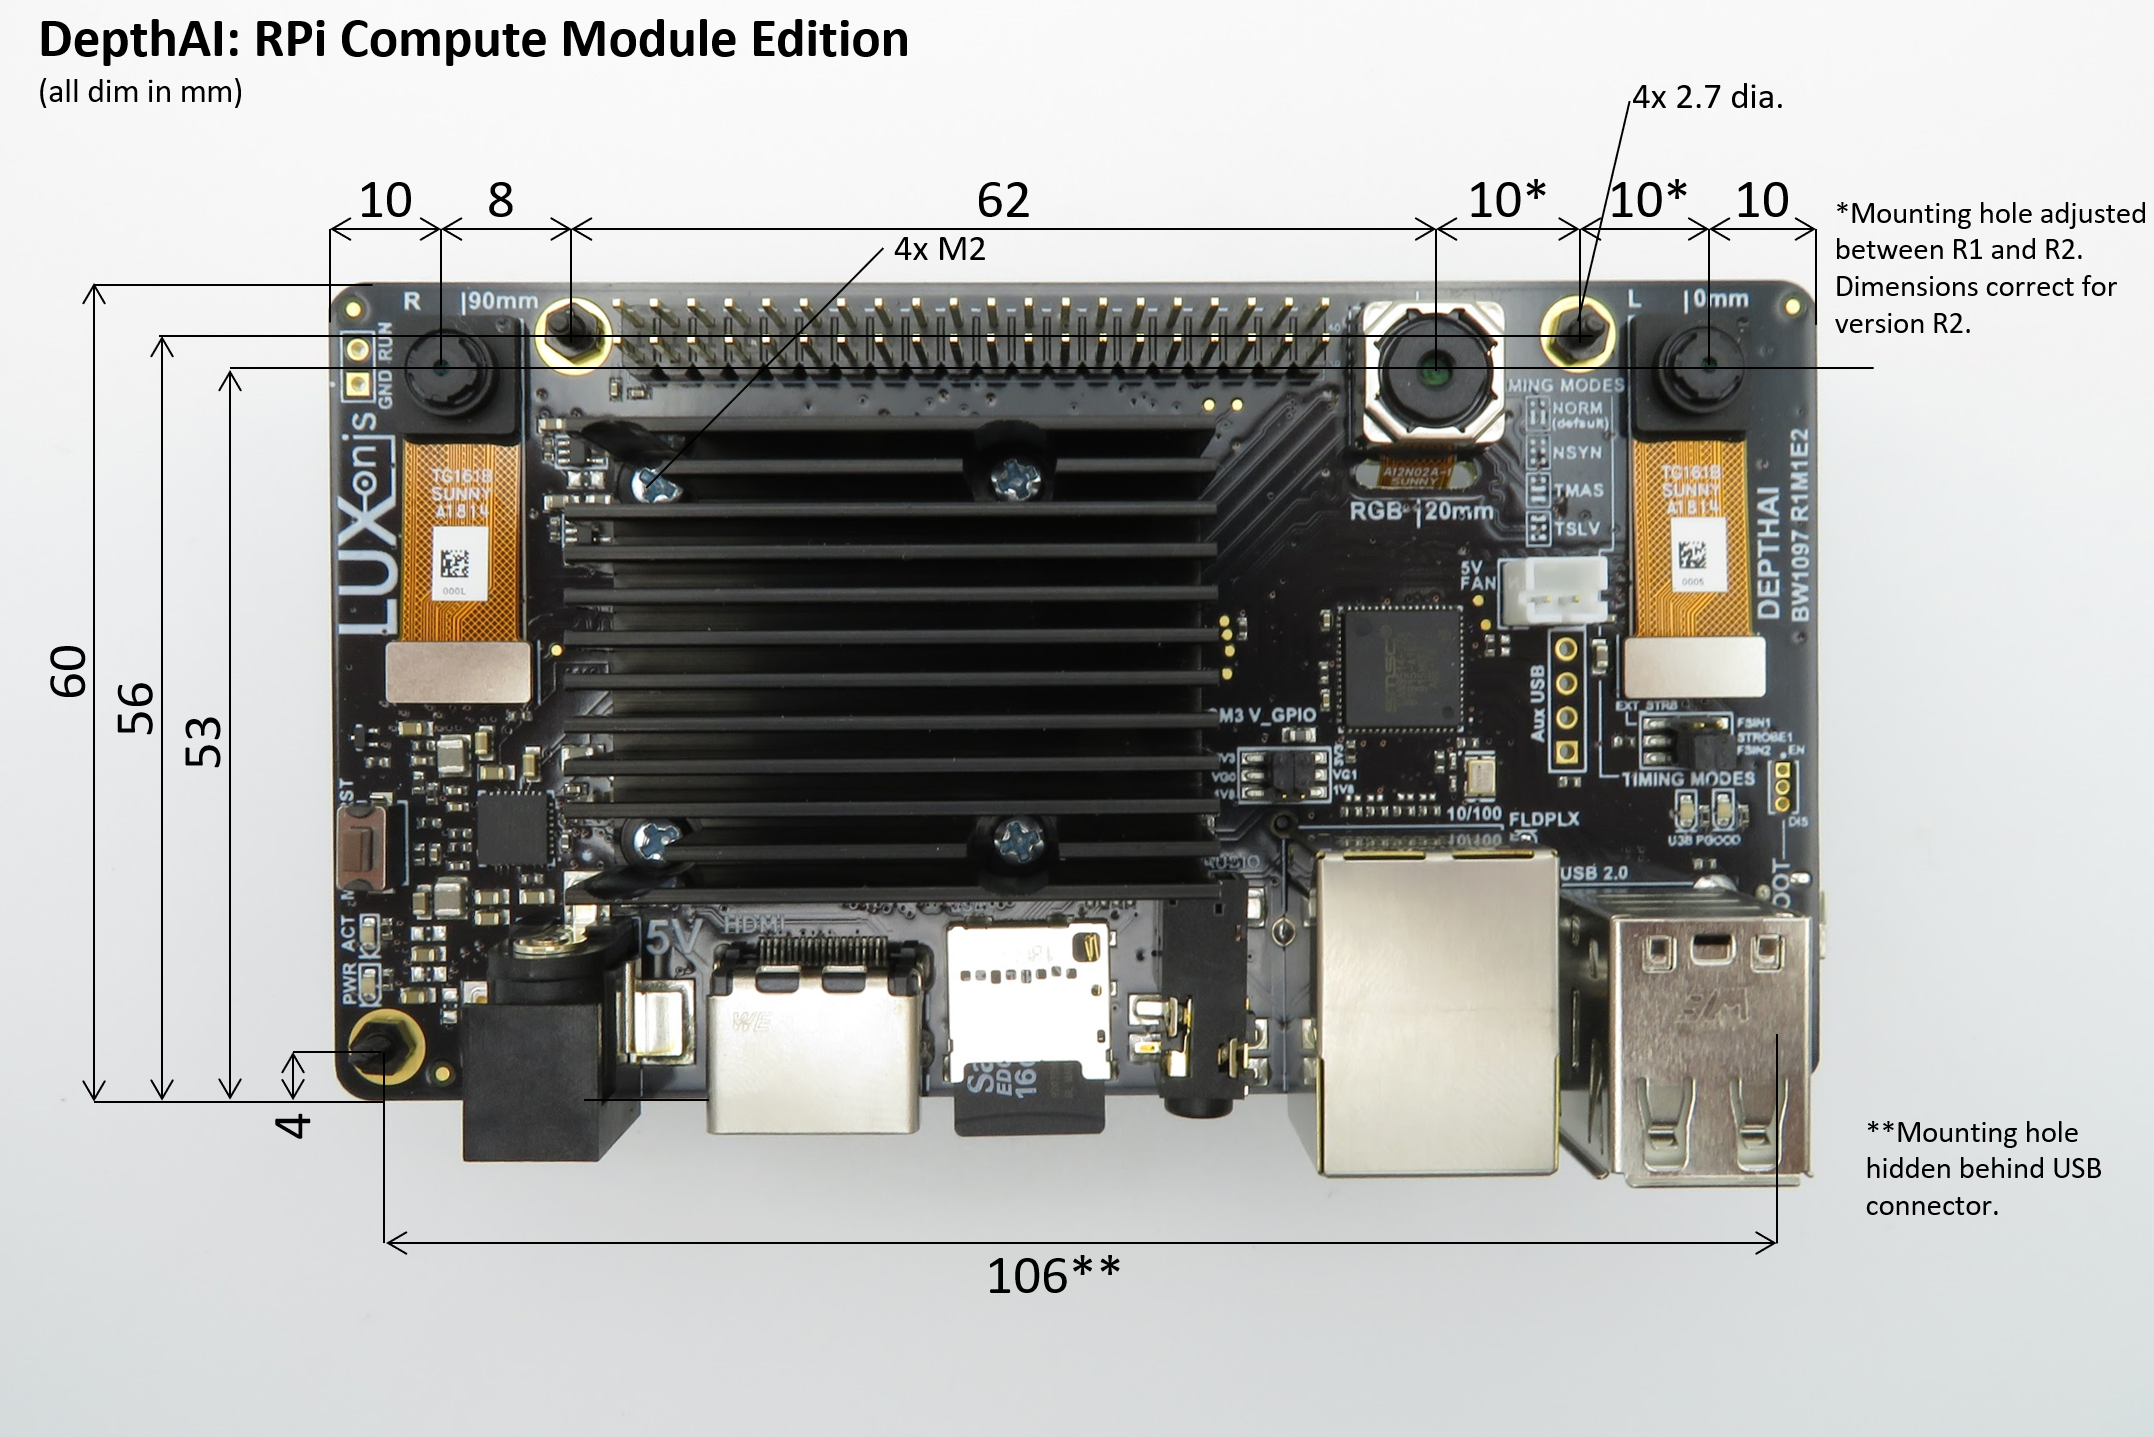
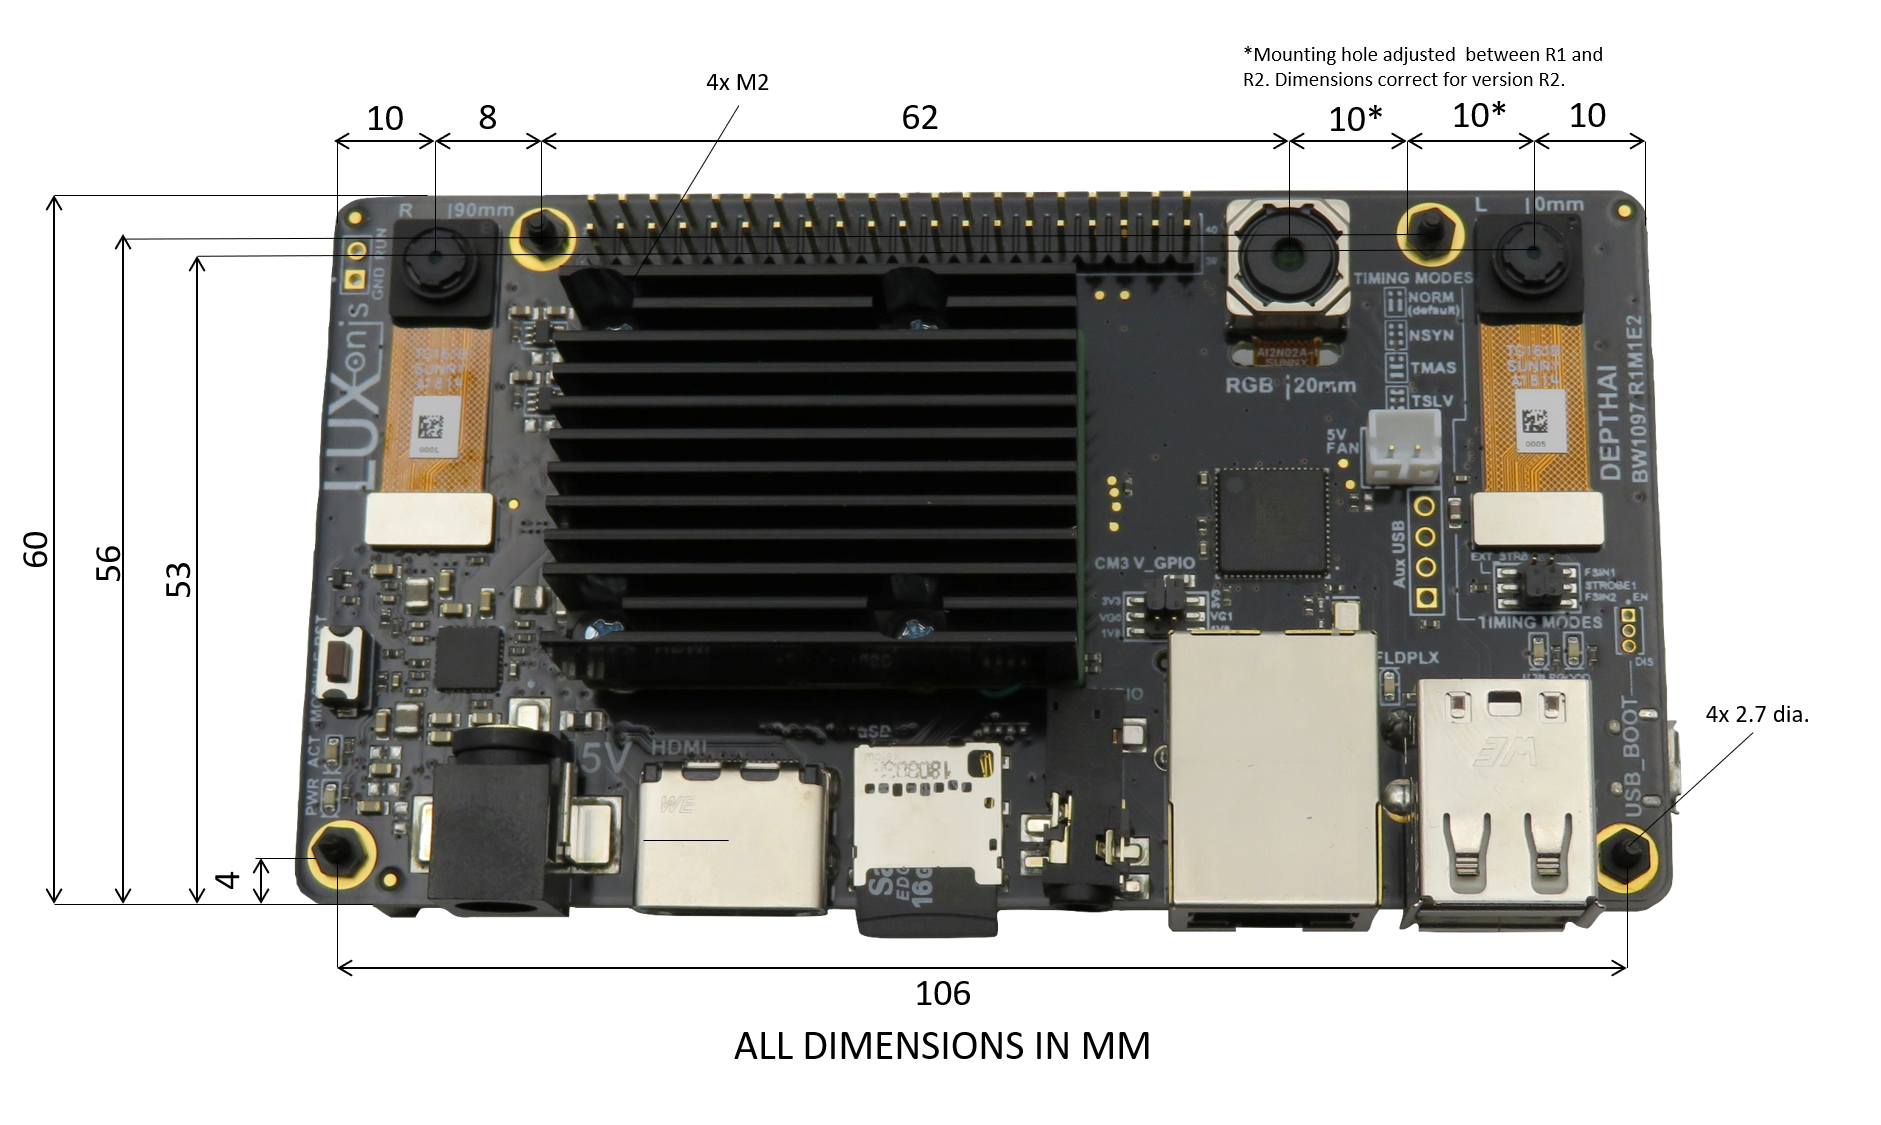
update r1m1e2 images & readme

diff --git a/BW1097_DepthAI_Compute_Module/README.md b/BW1097_DepthAI_Compute_Module/README.md
@@ -1,6 +1,6 @@
 # BW1097_R2M2E3 DepthAI for CM3+
 
-![](../BW1097_DepthAI_Compute_Module/Images/BW1097_R1M1E2_no_background.png)
+![](../BW1097_DepthAI_Compute_Module/Images/BW1097_R1M1E2_transparent_crop.png)
 
 # Overview
 This repository contains open hardware designed by Luxonis, and meant to be used as a baseboard for the [Luxonis](https://www.luxonis.com/depthai) BW1099 DepthAI SoM and the [Raspberry Pi Compute Module 3+](https://www.raspberrypi.org/products/compute-module-3-plus/). 
@@ -34,7 +34,7 @@ Based on the Raspberry PI CMIO board, the BW1097 combines a host and the Luxonis
 
 # Board layout & dimensions
 
-![](../BW1097_DepthAI_Compute_Module/Images/BW1097_R1M1E2_dims.PNG)
+![](../BW1097_DepthAI_Compute_Module/Images/BW1097_R1M1E2_dims.png)
 
 # Getting started
 The BW1097 accepts 5V (+/-10%) from a 5.5m x 2.5mm barrel jack. Raspberry PI USB boot can be accessed by setting a header jumper, which allows initial flash of eMMC on CM3/CM3+. Alternatively the microSD slot can be used with a bootable system image. The Raspberry PI JTAG header is not populated by default, but can be added, allowing JTAG access. 
